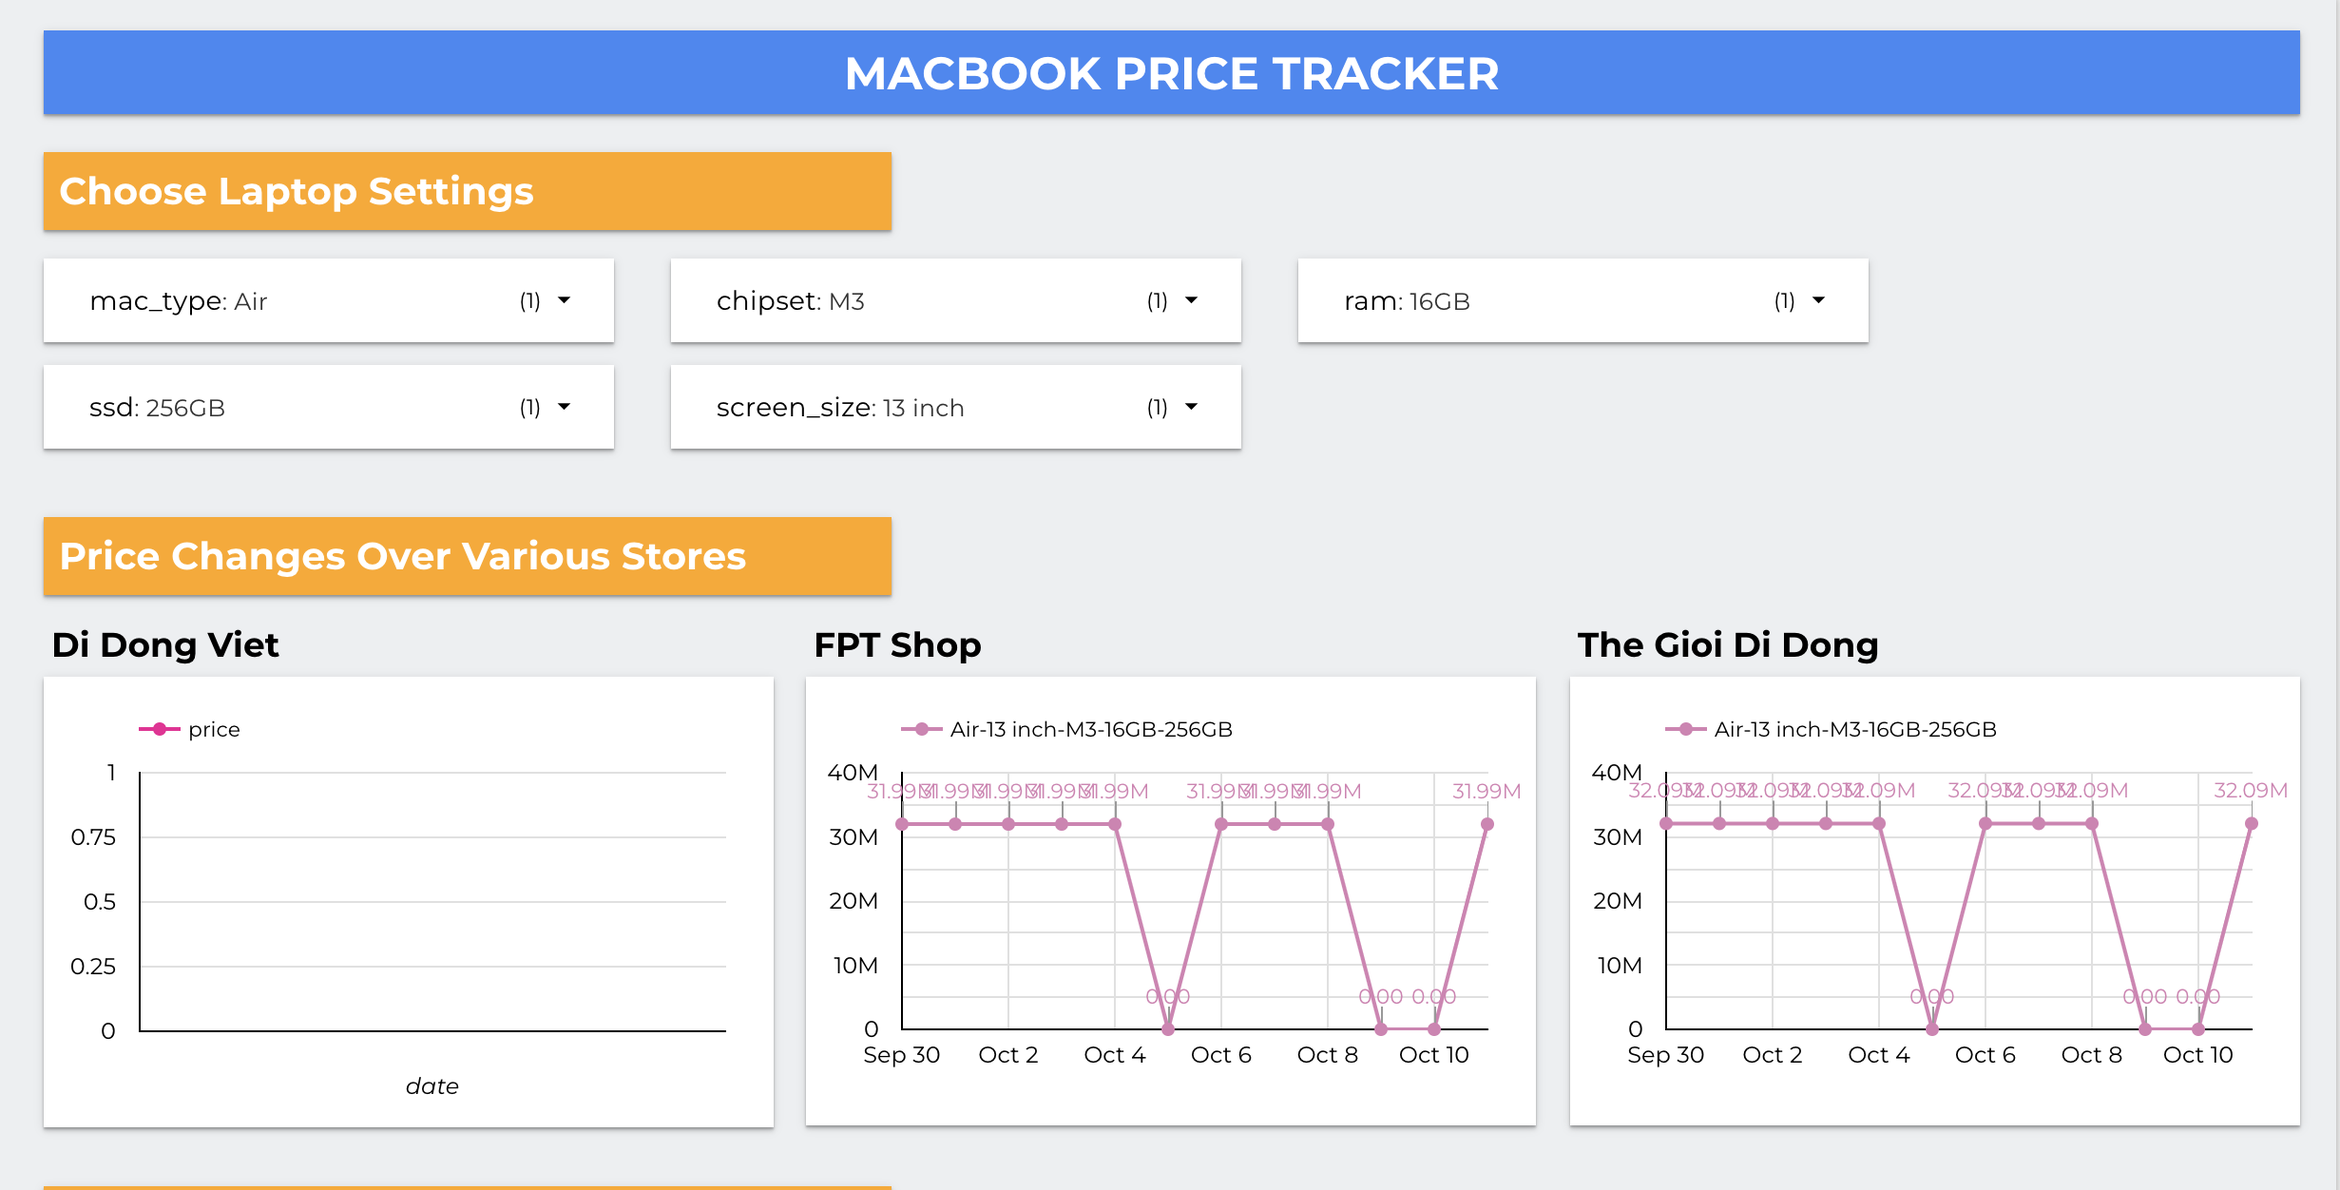
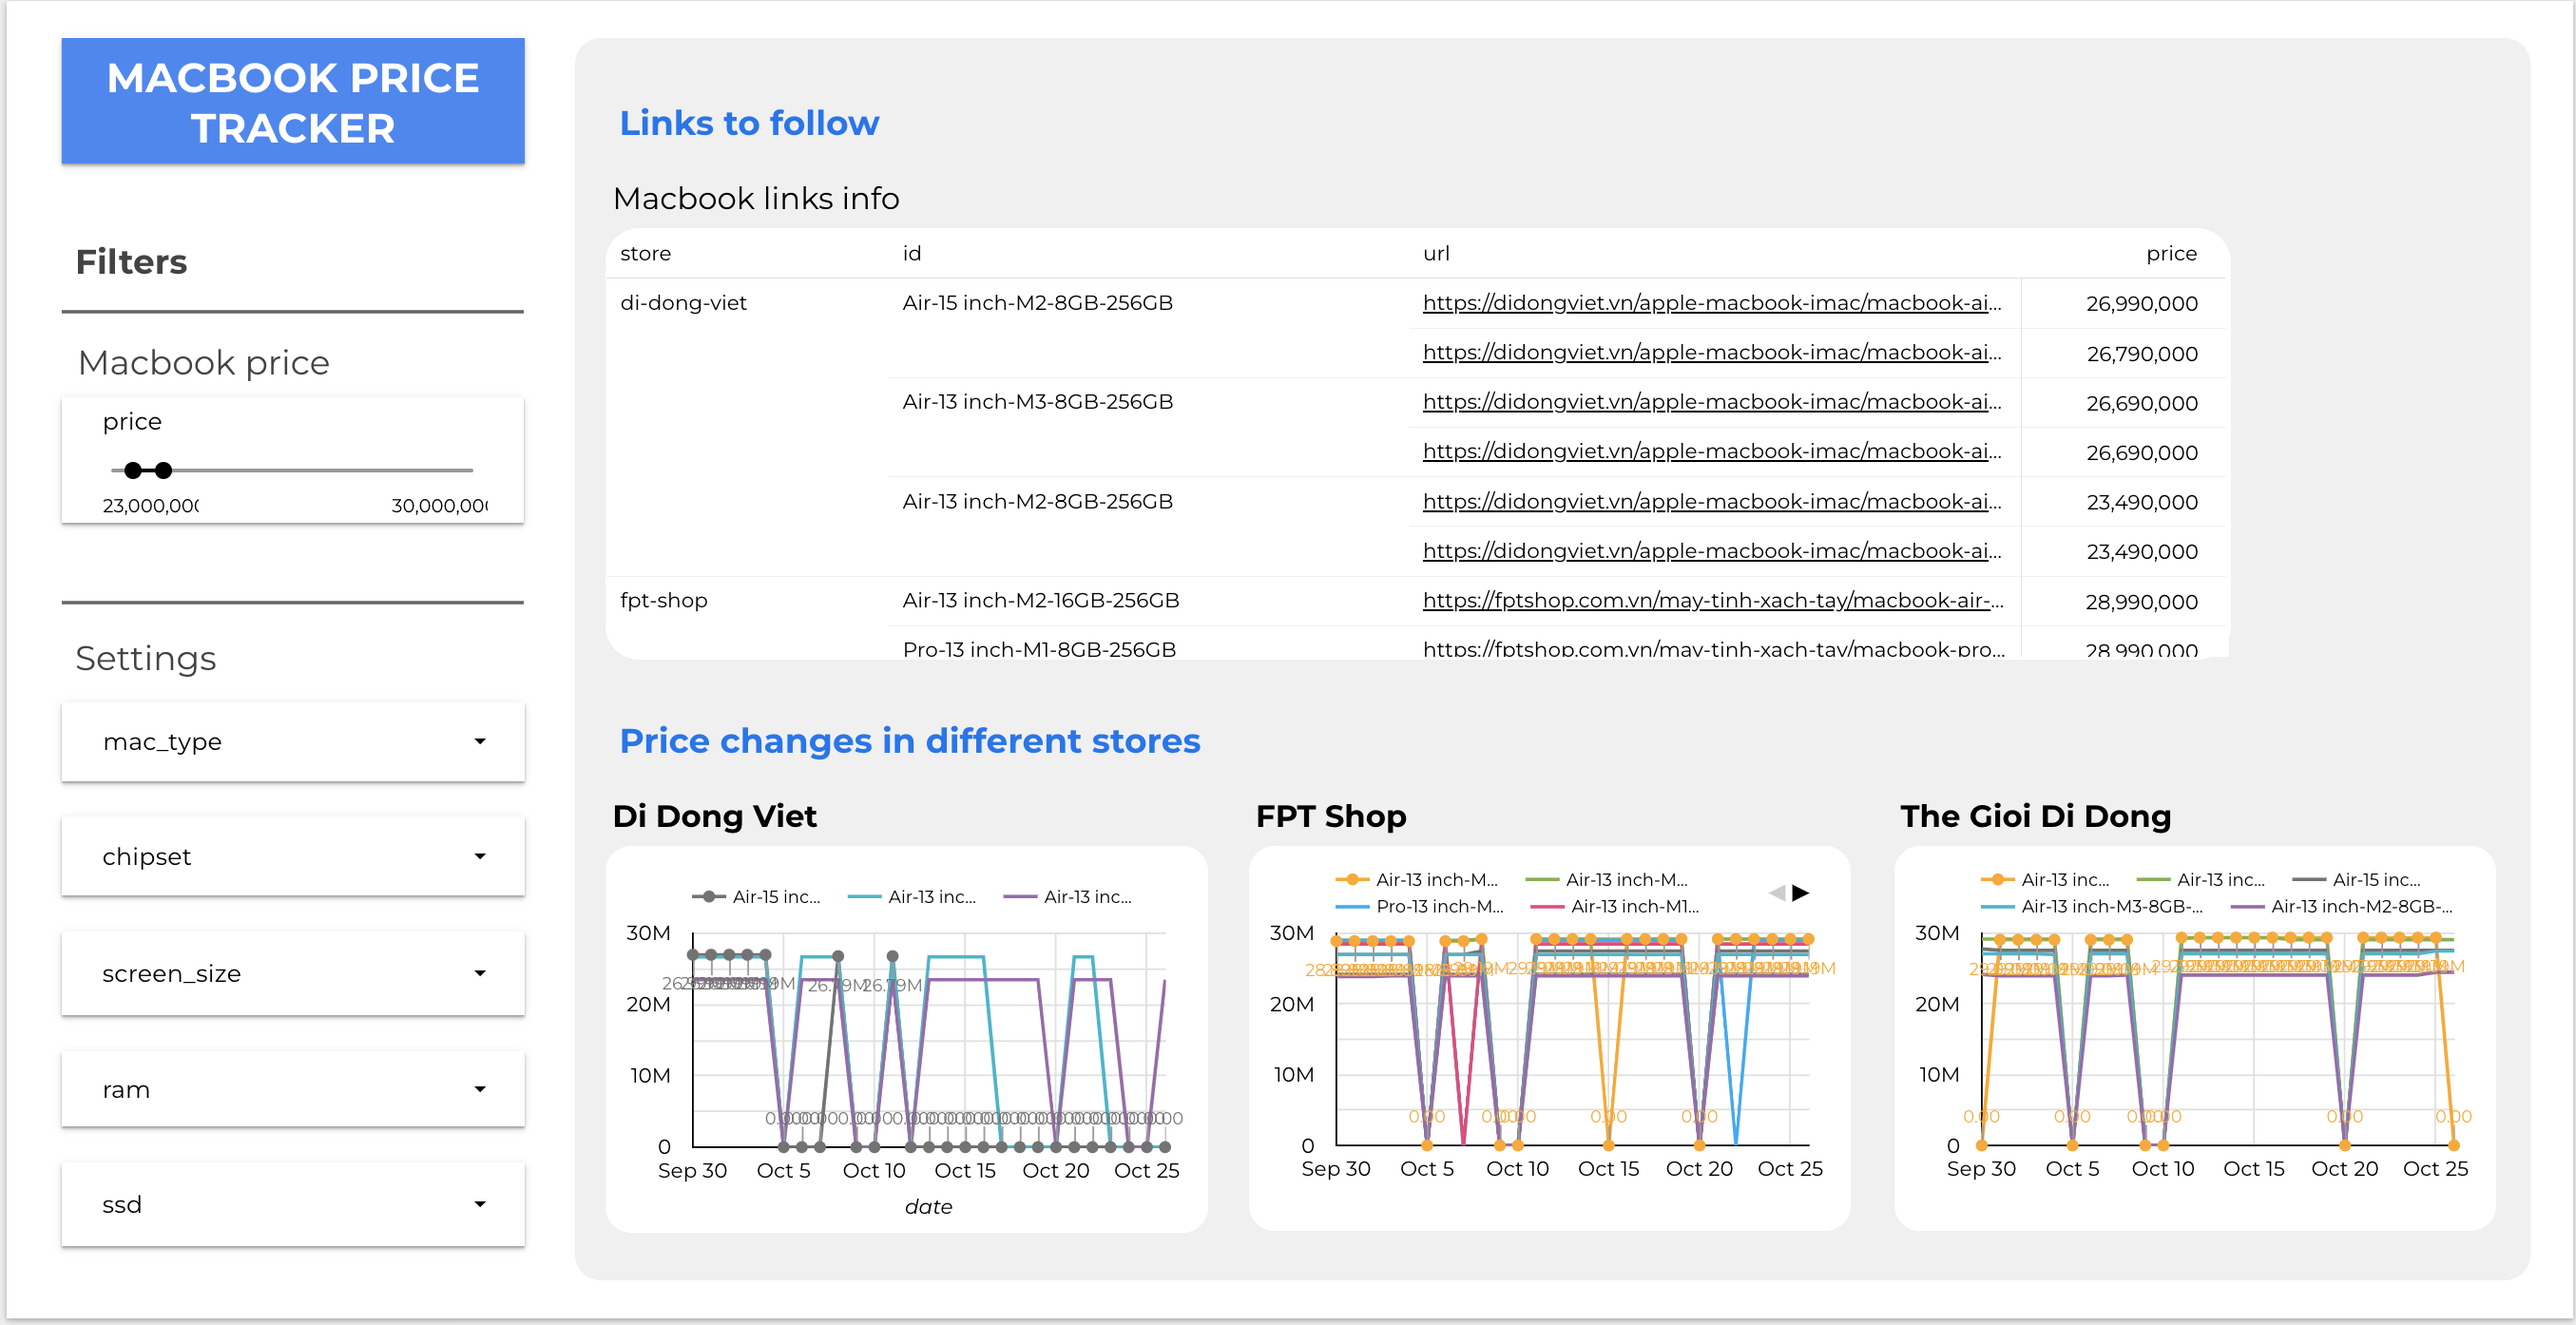
Modifided the structure, replace the dashboard img

diff --git a/macbook.html b/macbook.html
@@ -2,6 +2,7 @@
 <html>
   <head>
     <title>Crypto Project</title>
+    <link rel="stylesheet" href="https://cdnjs.cloudflare.com/ajax/libs/font-awesome/6.6.0/css/all.min.css">
     <link rel="icon" type="image/x-icon" href="/img/favicon.ico">
     <!-- <link rel="stylesheet" href="./style.css"/> -->
     <link rel="stylesheet" href="blog.css">
@@ -28,7 +29,7 @@
         </div>
         </div>
         <div class="topdiv">
-          <a class="topmenu" href="./index.html">Home</a>
+          <a class="topmenu" href="./index.html"><i class="fa-regular fa-paper-plane"></i> Home</a>
         </div>
       </div>
     </nav>
@@ -43,11 +44,19 @@
                 <h2>Overview</h2>
                 <p>This is a price tracking system to monitor MacBook prices across three major Vietnamese retailers such as The Gioi Di Dong, FPT Shop, and Di Dong Viet.</p>
                 <p>The project uses web scraping techniques to automatically collect pricing data at regular intervals using cron jobs</p>
-                <p>The data is stored and organized in Google Sheets, enabling integration with Looker Studio for real-time data visualization and reporting.</p>
                 <p>This system allows users to easily track price changes over time, compare offers across different stores, and make informed purchasing decisions</p>
                 <p>The project demonstrates my skills in automation, data management, and visualization, with a focus on enhancing user experience.</p>
             </div>
-            
+
+            <div class="project-card">
+              <h2>Dashboard</h2>
+              <img src="./img/dashboard.png" style="border: 1px dotted black;" class="work">
+              <p>The dashboard allows users to select specific MacBook models and configurations (e.g., storage, RAM).</p>
+              <p>View their price changes over time across three major stores: The Gioi Di Dong, FPT Shop, and Di Dong Viet.</p>
+              <p>Users can easily compare prices from different retailers through interactive charts and graphs.</p>
+              <p> Additionally, each entry includes a direct link to the product page at each store for more detailed information or purchase</p>
+            </div>
+
             <div class="project-card">
               <h2>Source code</h2>
               <ul>
@@ -91,7 +100,7 @@
             
             <div class="project-card">
                 <h2>Data Flow</h2>
-                <img src="./img/architecture-02.png" style="border: 1px solid black;" class="work">
+                <img src="./img/architecture-02.png" style="border: 1px dotted black;" class="work">
                 <h3>1. Data Collection</h3>
                 <p> A web crawler is daily scheduled using a crontab to extract MacBook pricing data from the websites of The Gioi Di Dong, FPT Shop, and Di Dong Viet. The crawler scrapes the product details, including models, price, RAM, SSD, and so on.</p>
                 
@@ -106,19 +115,7 @@
                 
                 <h3>5. Monitoring</h3>
                 <p>The entire process runs at scheduled intervals, producing logs to keep track of the data flow, ensuring that the Google Sheets and Looker Studio dashboards are automatically updated with prices. This allows users to access up-to-date visual insights and track price fluctuations over time.</p>
-
-
             </div>
-            
-            <div class="project-card">
-                <h2>Dashboard Overview</h2>
-                <img src="./img/dashboard.png" class="work">
-                <p>The dashboard allows users to select specific MacBook models and configurations (e.g., storage, RAM).</p>
-                <p>View their price changes over time across three major stores: The Gioi Di Dong, FPT Shop, and Di Dong Viet.</p>
-                <p>Users can easily compare prices from different retailers through interactive charts and graphs.</p>
-                <p> Additionally, each entry includes a direct link to the product page at each store for more detailed information or purchase</p>
-            </div>
-
         </div>
     </section>
   </body>

diff --git a/index.html b/index.html
@@ -1,12 +1,12 @@
 <!DOCTYPE html>
 <html>
   <head>
+    <link rel="stylesheet" href="https://cdnjs.cloudflare.com/ajax/libs/font-awesome/6.6.0/css/all.min.css">
     <title>Duy Ca - Portfolio</title>
     <link rel="icon" type="image/x-icon" href="/img/favicon.ico">
     <link rel="stylesheet" href="./style.css"/>
     <script src="./script.js"></script>
   </head>
-  
   <body>
     <!-- Navigation Bar -->
     <nav>
@@ -24,10 +24,10 @@
         </div>
         </div>
         <div class="topdiv">
-          <a class="topmenu" href="#about-me">About Me</a>
+          <a class="topmenu" href="#about-me"><i class="fa-regular fa-user"></i> About Me</a>
           <!-- Add the links for Skills, Projects and Recommendation here -->
-          <a class="topmenu" href="#skills"">Skills</a>
-          <a class="topmenu" href="#projects">Projects</a>
+          <a class="topmenu" href="#skills"><i class="fa-regular fa-star"></i> Skills</a>
+          <a class="topmenu" href="#projects"><i class="fa-regular fa-folder"></i> Projects</a>
           <!-- <a class="topmenu" href="#recommendations"">Recommendations</a> -->
         </div>
       </div>    
@@ -88,24 +88,21 @@
           </div>
         </div>
       </section>
-            
+      
       <!-- Projects -->
       <section class="projects" id="projects">
-        <h2>
-          Projects
-        </h2>
+        <h2>Projects</h2>
         <div style="clear:both;"></div>
 
           <div id="projects-container" class="projects-container">
             <div class="project-card">
               <h3><a href="macbook.html">Macbook Price Tracker</a></h3>
               <ul>
-                <li>The MacBook Price Tracker collects prices from three reliable sources</li>
+                <li>The MacBook Price Tracker collects prices from three reliable sources.</li>
                 <li>Allowing users to compare options based on their preferences for RAM, SSD, and chip.</li>
                 <li>It helps users find the best deal on a MacBook by simplifying the decision-making process.</li>
               </ul>
             </div>
-            <hr>
             <div class="project-card">
               <h3><a href="crypto.html">Crypto Data Pipeline</a></h3>
               <ul>

diff --git a/style.css b/style.css
@@ -1,5 +1,9 @@
 body {
-  font-family: 'Trebuchet MS', 'Lucida Sans Unicode', 'Lucida Grande', 'Lucida Sans', Arial, sans-serif;
+  font-family: serif;
+}
+
+h1, h2, h3 {
+  font-family: sans-serif;
 }
 
 /* Navigation Bar */
@@ -12,28 +16,36 @@ body {
   margin-top:-1cm;
   padding-top: 2cm;
   padding-bottom: 2cm;
-  height: 5mm;
+  height: 20px;
  }
 
 .topmenu {
+  display: inline-block;
+  width: 120px;
+  padding: 15px;
+  text-decoration: none;
+  text-align: center;
+  /* border: 2px solid white;
+  border-radius: 20px; */
+  font-size: 19px;
   color: lightgray;
-  margin-left: 20px;
-  padding: 20px;
-  font-size: 20px;
-  text-decoration:none;
+  font-family: sans-serif;
+}
+
+.topmenu + .topmenu {
+  margin-left: 23px;
 }
 
 .topmenu:hover {
   color: white;
-  font-weight: bold;
   text-decoration: underline;
   /* Add the styles here */
 }
 
 .topdiv {
-  float: left;
+  /* float: left; */
   padding-right: 1cm;
-  margin-left: 50px;
+  margin-left: 130px;
 }
 
 .profile_name {
@@ -232,7 +244,7 @@ h2 {
   width: 48px;
   height: 48px;
   border-radius: 100%;
-  background-color: #257180;
+  background-color: #000000;
   display: flex;
   align-items: center;
   justify-content: center;

diff --git a/blog.css b/blog.css
@@ -1,7 +1,8 @@
 
 /* Navigation Bar */
 body {
-    font-family: 'Trebuchet MS', 'Lucida Sans Unicode', 'Lucida Grande', 'Lucida Sans', Arial, sans-serif;
+    font-family: Georgia, 'Times New Roman', Times, serif;
+    /*  'Trebuchet MS', 'Lucida Sans Unicode', 'Lucida Grande', 'Lucida Sans', Arial,  */
   }
 
 #home {
@@ -121,8 +122,13 @@ justify-content: center;
 
   p {
     line-height: 1.6;
-    font-size: 19px;
+    font-size: 20px;
   }
+
+/* font-family for headings */
+h1, h2, h3 {
+  font-family: Arial, Helvetica, sans-serif;
+}
 
 h1 {
     font-size: 48px;
@@ -132,6 +138,7 @@ h1 {
 h2 {
     border-left: 4px solid ;
     padding-left: 20px;
-    font-size: 24px
+    font-size: 24px;
 }
+
 

diff --git a/crypto.html b/crypto.html
@@ -2,6 +2,7 @@
 <html>
   <head>
     <title>Crypto Project</title>
+    <link rel="stylesheet" href="https://cdnjs.cloudflare.com/ajax/libs/font-awesome/6.6.0/css/all.min.css">
     <link rel="icon" type="image/x-icon" href="/img/favicon.ico">
     <link rel="stylesheet" href="blog.css"/>
     <script src="./script.js"></script>
@@ -24,7 +25,7 @@
         </div>
         </div>
         <div class="topdiv">
-          <a class="topmenu" href="./index.html">Home</a>
+          <a class="topmenu" href="./index.html"><i class="fa-regular fa-paper-plane"></i> Home</a>
         </div>
       </div>    
     </nav>
